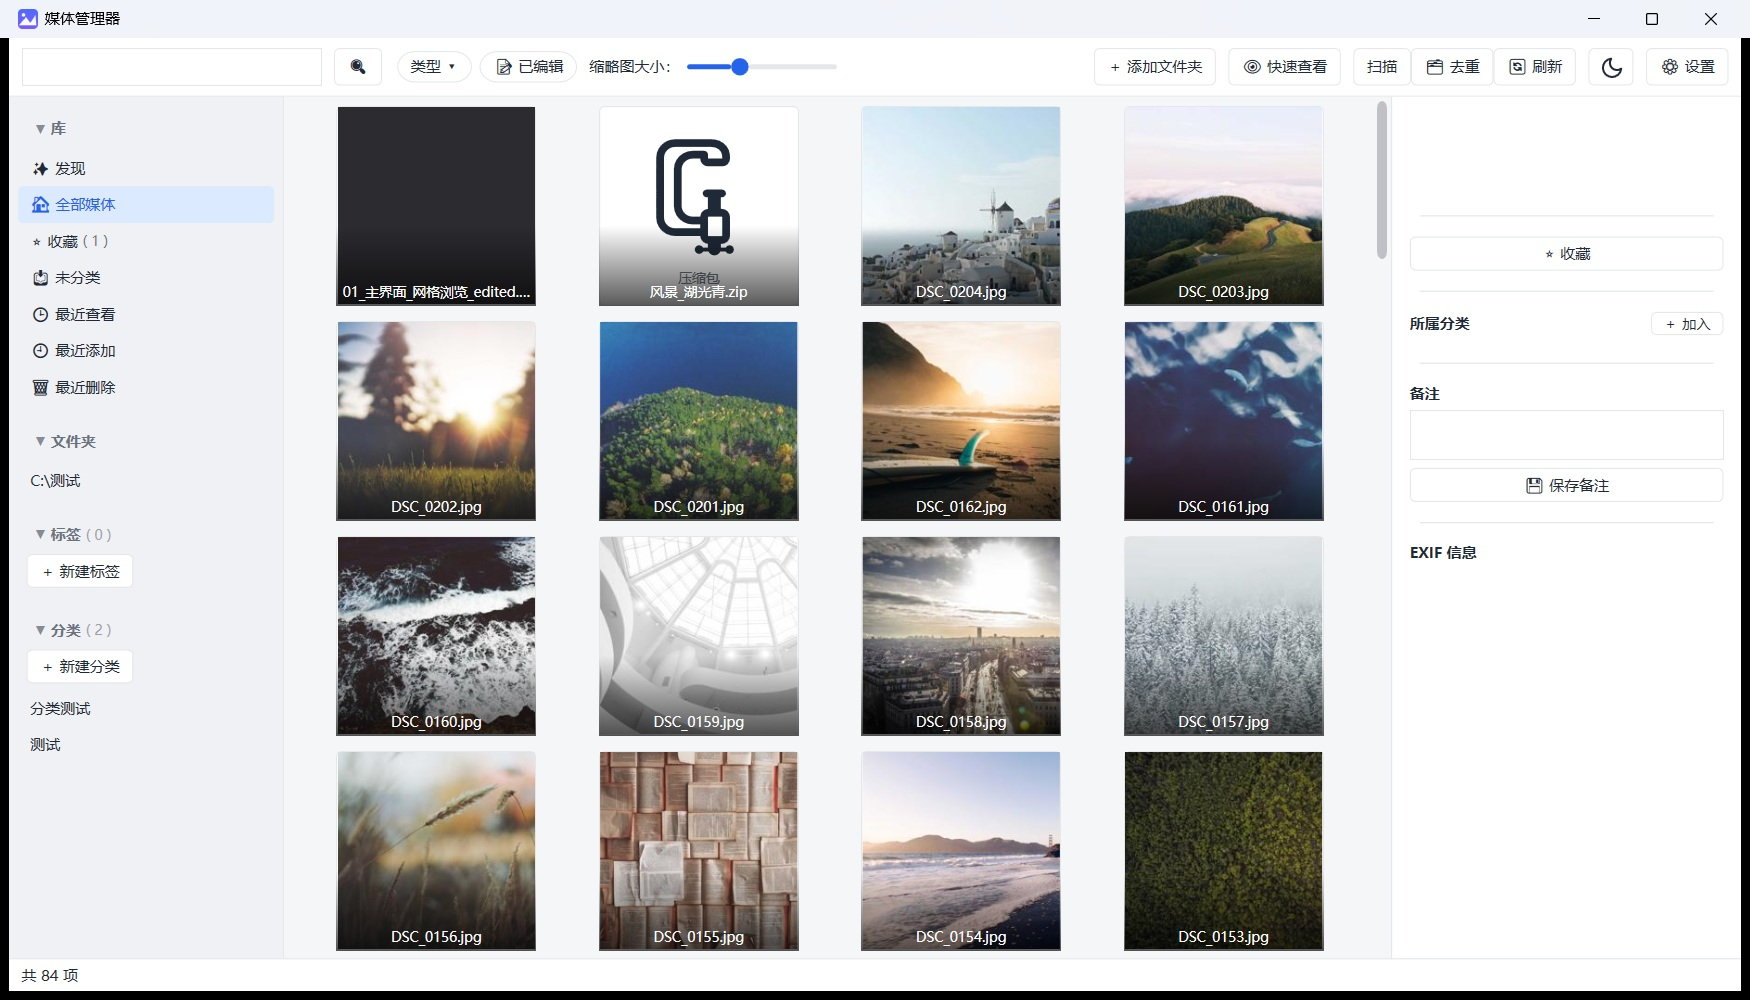
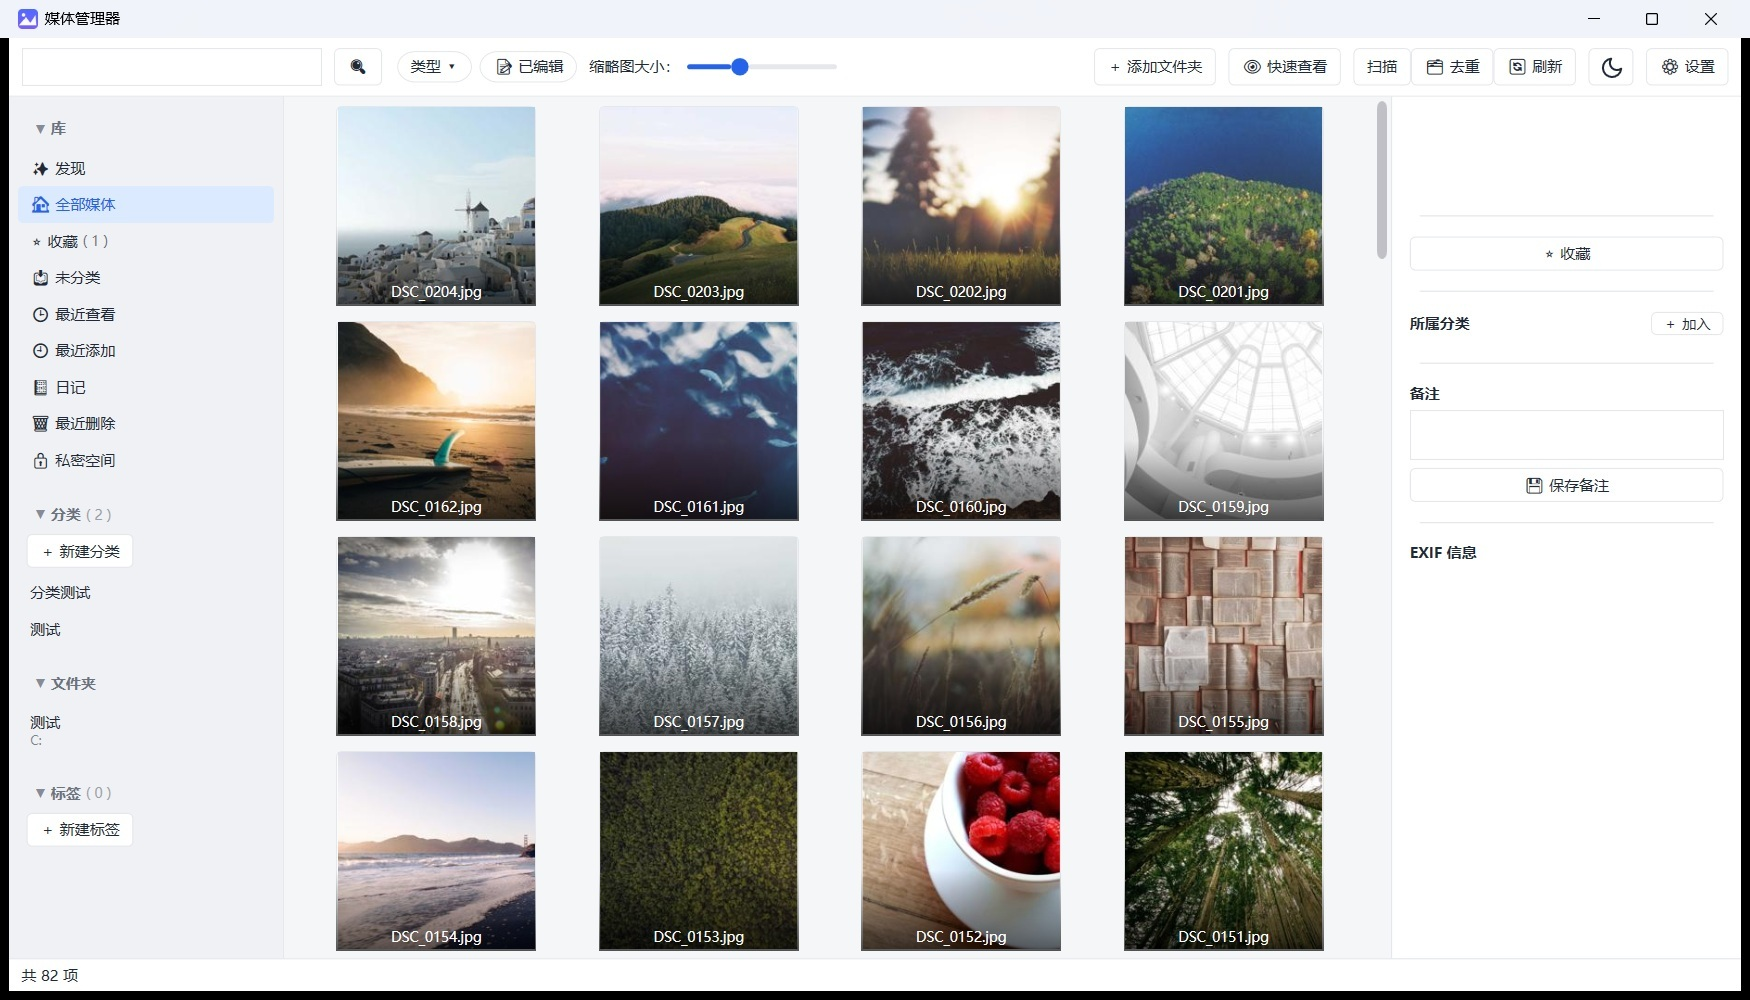
docs: 重新抓主界面截图（对齐 v1.4.0 界面）
README 与官网首屏的三张截图还是 v1.3.x 的样子：侧栏「分类」在「文件夹」下面、
文件夹显示整条路径、没有日记和私密空间入口。用 dist 的 Release 版重抓：

- uia_shot_theme.py 改用 dist/MediaManager-win-x64 的 exe（Debug 版可能停在旧代码），
  并固定窗口 1750×1000 后等比裁切，尺寸与原有截图一致
- 截图前清掉库里 4 条历史测试残留（涂鸦测试图 / 素材网页截图 / 临时 vault 图 / 测试 zip），
  只删索引不动磁盘文件；删过库已备份
- check_social_preview.py 换成「页脚字形掩膜」比对：原来只比整图缩略，
  页脚那行版本号的差异被平均成 0.000，v1.4.0 因此漏检一次（线上还挂着 v1.3.2）

diff --git a/build/check_social_preview.py b/build/check_social_preview.py
@@ -1,13 +1,17 @@
 # -*- coding: utf-8 -*-
-"""验证仓库的 Social Preview 是否已经换成我们那张封面。
+"""验证仓库的 Social Preview 是否已经换成「当前这版」的封面。
 
-做法：抓仓库页面里的 og:image（GitHub 通过 opengraph.githubassets.com 代理），
-下载回来和 docs/social-preview.png 做缩略图比对 —— 相似度接近 1 就是上传成功了。
+做法：抓仓库页面里的 og:image（GitHub 把上传的 Social Preview 挂在
+repository-images.githubusercontent.com 上），下载回来跟 docs/social-preview.png 比。
+
+⚠ 别只比整图相似度：社交预览和本地图结构完全一样，只有右下角页脚那一行
+「vX.Y.Z · NN 种格式」会变；整图缩到 64×36 一比，这点差异直接被平均成 0.000，
+于是脚本欢快地判定「已生效」—— v1.4.0 就这么漏掉过一次（线上还挂着 v1.3.2）。
+所以这里单独把页脚条带抠出来，按「文字像素掩膜」比，字形变了才算通过。
 """
 import io
 import os
 import re
-import ssl
 import urllib.request
 
 from PIL import Image, ImageChops, ImageStat
@@ -17,29 +21,45 @@ LOCAL = os.path.join(ROOT, "docs", "social-preview.png")
 REPO_URL = "https://github.com/3206YYY/MediaManager"
 UA = {"User-Agent": "Mozilla/5.0 (Windows NT 10.0; Win64; x64)"}
 
+# 页脚条带（相对整图的右下方块），版本号那一行就写在这里
+FOOT_BOX = (0.66, 0.88, 1.0, 1.0)
+TEXT_LEVEL = 70          # 亮度高于它算「文字像素」（背景最深只有 ~18）
+
 
 def fetch(url, binary=False):
-    ctx = ssl.create_default_context()
     req = urllib.request.Request(url, headers=UA)
-    with urllib.request.urlopen(req, timeout=60, context=ctx) as r:
+    with urllib.request.urlopen(req, timeout=60) as r:
         data = r.read()
     return data if binary else data.decode("utf-8", "ignore")
 
 
-def thumb(im, size=(64, 36)):
-    return im.convert("RGB").resize(size, Image.LANCZOS)
-
-
 def diff_ratio(a, b):
     stat = ImageStat.Stat(ImageChops.difference(a, b))
-    return sum(stat.mean) / 3 / 255.0   # 0 = 完全一样，1 = 完全不同
+    return sum(stat.mean) / 3 / 255.0
+
+
+def foot_mask(im):
+    """裁出页脚条带，把文字像素二值化成掩膜。"""
+    w, h = im.size
+    box = tuple(int(v * s) for v, s in zip(FOOT_BOX, (w, h, w, h)))
+    g = im.convert("L").crop(box)
+    return g.point(lambda v: 255 if v > TEXT_LEVEL else 0)
+
+
+def mask_diff(a, b):
+    """两张掩膜里「一个亮一个暗」的像素占比：0 = 字完全一样。"""
+    if a.size != b.size:
+        b = b.resize(a.size, Image.LANCZOS)
+    diff = ImageChops.difference(a, b)
+    # 掩膜是二值的：histogram()[255] 就是亮像素数；diff 的非零桶之和是差异像素数
+    lit = a.histogram()[255] + b.histogram()[255]
+    hit = sum(diff.histogram()[1:])
+    return hit / max(lit, 1)
 
 
 def main():
     html = fetch(REPO_URL)
-    m = re.search(r'<meta\s+property="og:image"\s+content="([^"]+)"', html)
-    if not m:
-        m = re.search(r'property="og:image"\s+content="([^"]+)"', html)
+    m = re.search(r'property="og:image"\s+content="([^"]+)"', html)
     if not m:
         print("页面里没找到 og:image")
         return
@@ -51,9 +71,22 @@ def main():
     net.save(os.path.join(ROOT, "build", "og_preview_check.png"))
 
     local = Image.open(LOCAL).convert("RGB")
-    d = diff_ratio(thumb(local), thumb(net))
-    print(f"网络图 {net.size}  本地图 {local.size}  差异度 = {d:.3f}（<0.12 视为同一张）")
-    print("结论：" + ("✓ 社交预览已经是封面图了" if d < 0.12 else "✗ 还是 GitHub 默认卡片，图上没生效"))
+    if net.size != local.size:
+        net = net.resize(local.size, Image.LANCZOS)
+
+    full = diff_ratio(local.resize((640, 320), Image.LANCZOS),
+                      net.resize((640, 320), Image.LANCZOS))
+    glyph = mask_diff(foot_mask(local), foot_mask(net))
+
+    print(f"整图差异度 = {full:.4f}（>0.06 说明压根不是这张图）")
+    print(f"页脚字形差异 = {glyph:.3f}（>0.05 说明版本号那一行还没刷新）")
+
+    if full > 0.06:
+        print("结论：✗ 线上还是 GitHub 默认卡片，这张封面根本没上传")
+    elif glyph > 0.05:
+        print("结论：✗ 封面是同一张，但页脚版本号是旧的 —— 去 Settings → Social preview 重新上传 docs/social-preview.png")
+    else:
+        print("结论：✓ 社交预览已换成当前版本")
 
 
 if __name__ == "__main__":
